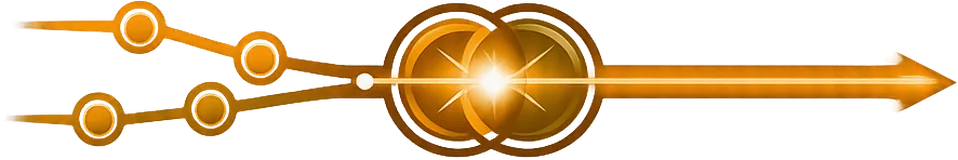
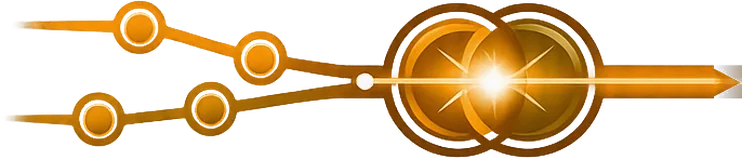
Die sechs Textzeichnungen als SVG, im Leuchtstil in Orange
Selbst gezeichnet statt erzeugt -- damit bleibt erhalten, was ein
Pixelbild verliert: echter Text mit richtigen Umlauten, markierbar und
vorlesbar, gestochen scharf auf jedem Bildschirm.

Zusammen 20 kB fuer alle sechs. Die erzeugten Fassungen wogen 5,9 MB und
enthielten vier Fehler, die im Bild eingebrannt gewesen waeren
("groesster" als grôBter, "Anstoss" als Anstoŝ, ein Pfeil, der das
Gegenteil der Aussage zeigte, und eine fehlende Beschriftung).

Die Markdown-Datei behaelt die ASCII-Zeichnungen. Sie ist die Quelle, in
der sich eine Zeichnung mit dem Texteditor aendern laesst, und bleibt
ohne Browser lesbar; die Seite bekommt die gezeichnete Fassung.

Ausserdem: Bild 05 im Schaft gekuerzt, 958 -> 742 px. Knoten,
Brennpunkt und Pfeilspitze sind unversehrt, die Naht ist ueber 60
Spalten geblendet.

diff --git a/index.html b/index.html
@@ -299,6 +299,10 @@
     border-radius:2px;
   }
 
+  /* ---------- Zeichnungen ---------- */
+  .panel.zeichnung{padding:14px 16px;overflow:visible}
+  .panel.zeichnung svg{display:block;width:100%;height:auto}
+
   /* ---------- Merksätze ---------- */
   .lesson{
     background:var(--surface);
@@ -479,12 +483,15 @@
 
   <h2 id="s2"><span class="num">Abschnitt 02</span>Aufbau</h2>
 
-  <div class="panel"><pre>┌─────────────────┐     WLAN/TLS      ┌────────────────────┐    HTTPS   ┌──────────┐
-│  ESP32          │ ────────────────► │  Gateway (NUC)     │ ─────────► │ Quelle A │
-│  20× ST7735     │                   │  nginx +           │            └──────────┘
-│  10× 74HC595    │                   │  Schemaübersetzer  │ ─────────► ┌──────────┐
-│  IR-Empfänger   │                   │  NTP (chrony)      │            │ Quelle B │
-└─────────────────┘                   └────────────────────┘            └──────────┘</pre></div>
+  <div class="panel zeichnung"><svg viewBox="0 0 880 210" xmlns="http://www.w3.org/2000/svg" role="img" aria-label="Aufbau: Geraet, Gateway und die beiden Quellen" font-family="ui-monospace,Consolas,monospace"><defs>
+  <filter id="gla" x="-30%" y="-60%" width="160%" height="220%">
+    <feGaussianBlur stdDeviation="3" result="b"/>
+    <feMerge><feMergeNode in="b"/><feMergeNode in="b"/><feMergeNode in="SourceGraphic"/></feMerge>
+  </filter>
+  <linearGradient id="bala" x1="0" y1="0" x2="1" y2="0">
+    <stop offset="0" stop-color="#7A3F08"/><stop offset="1" stop-color="#E8912F"/>
+  </linearGradient>
+</defs><rect x="16" y="42" width="224" height="126" rx="3" fill="#1E1408" stroke="#E8912F" stroke-width="2" filter="url(#gla)"/><text x="128" y="70" fill="#E8912F" font-size="17" text-anchor="middle" font-weight="600">ESP32</text><text x="128" y="96" fill="#8A93A2" font-size="13" text-anchor="middle" font-weight="400">20 × ST7735</text><text x="128" y="118" fill="#8A93A2" font-size="13" text-anchor="middle" font-weight="400">10 × 74HC595</text><text x="128" y="140" fill="#8A93A2" font-size="13" text-anchor="middle" font-weight="400">IR-Empfänger</text><g filter="url(#gla)"><line x1="240" y1="105" x2="321" y2="105" stroke="#E8912F" stroke-width="2.5"/><path d="M330 105 l-9 -5 l0 10 z" fill="#E8912F"/></g><text x="285" y="92" fill="#8A93A2" font-size="12" text-anchor="middle" font-weight="400">WLAN / TLS</text><rect x="330" y="42" width="236" height="126" rx="3" fill="#1E1408" stroke="#E8912F" stroke-width="2" filter="url(#gla)"/><text x="448" y="70" fill="#E8912F" font-size="17" text-anchor="middle" font-weight="600">Gateway</text><text x="448" y="96" fill="#8A93A2" font-size="13" text-anchor="middle" font-weight="400">nginx</text><text x="448" y="118" fill="#8A93A2" font-size="13" text-anchor="middle" font-weight="400">Schemaübersetzer</text><text x="448" y="140" fill="#8A93A2" font-size="13" text-anchor="middle" font-weight="400">NTP</text><g filter="url(#gla)"><line x1="566" y1="78" x2="659" y2="78" stroke="#E8912F" stroke-width="2.5"/><path d="M668 78 l-9 -5 l0 10 z" fill="#E8912F"/></g><g filter="url(#gla)"><line x1="566" y1="132" x2="659" y2="132" stroke="#E8912F" stroke-width="2.5"/><path d="M668 132 l-9 -5 l0 10 z" fill="#E8912F"/></g><text x="617" y="64" fill="#8A93A2" font-size="12" text-anchor="middle" font-weight="400">HTTPS</text><rect x="668" y="54" width="196" height="48" rx="3" fill="#1E1408" stroke="#E8912F" stroke-width="2" filter="url(#gla)"/><text x="766" y="84" fill="#E9EBEF" font-size="15" text-anchor="middle" font-weight="400">Quelle A</text><rect x="668" y="108" width="196" height="48" rx="3" fill="#1E1408" stroke="#E8912F" stroke-width="2" filter="url(#gla)"/><text x="766" y="138" fill="#E9EBEF" font-size="15" text-anchor="middle" font-weight="400">Quelle B</text></svg></div>
 
   <div class="col">
     <p><strong>Das Gerät</strong> ist ein ESP32 mit einem einzigen SPI-Bus für alle zwanzig Panels. Die Chip-Select-Leitungen erzeugt eine Kette aus zehn Schieberegistern (74HC595) — zwanzig einzelne Leitungen wären am Controller nicht unterzubringen. Ein Nebeneffekt dieser Bauweise: Ein Bitfehler in der Kette verschiebt <em>alle</em> nachfolgenden Auswahlen, weshalb die Kette turnusmäßig neu beschrieben wird, auch wenn sich nichts geändert hat.</p>
@@ -516,13 +523,15 @@
     <p>Im Betrieb werden laufend Blöcke belegt und wieder freigegeben. Was zurückbleibt, ist kein leerer Raum, sondern ein durchlöcherter — freie und belegte Bereiche wechseln sich ab. Das nennt man <strong>Fragmentierung</strong>:</p>
   </div>
 
-  <div class="panel"><pre>  frei insgesamt: 20 kB                 groesster Block: 17 kB
-  ┌────────────────────┬────────┬────┬────────┬────┐
-  │     17 kB frei     │ belegt │ 2k │ belegt │ 1k │
-  └────────────────────┴────────┴────┴────────┴────┘
-                                 ▲              ▲
-                        diese 3 kB zaehlen als "frei" mit,
-                        sind fuer einen 4-kB-Puffer aber wertlos</pre></div>
+  <div class="panel zeichnung"><svg viewBox="0 0 880 236" xmlns="http://www.w3.org/2000/svg" role="img" aria-label="Fragmentierung: 20 kB frei, groesster Block 17 kB" font-family="ui-monospace,Consolas,monospace"><defs>
+  <filter id="glf" x="-30%" y="-60%" width="160%" height="220%">
+    <feGaussianBlur stdDeviation="3" result="b"/>
+    <feMerge><feMergeNode in="b"/><feMergeNode in="b"/><feMergeNode in="SourceGraphic"/></feMerge>
+  </filter>
+  <linearGradient id="balf" x1="0" y1="0" x2="1" y2="0">
+    <stop offset="0" stop-color="#7A3F08"/><stop offset="1" stop-color="#E8912F"/>
+  </linearGradient>
+</defs><text x="16" y="30" fill="#8A93A2" font-size="14" text-anchor="start" font-weight="400">frei insgesamt:</text><text x="150" y="30" fill="#E8912F" font-size="14" text-anchor="start" font-weight="600">20 kB</text><text x="430" y="30" fill="#8A93A2" font-size="14" text-anchor="start" font-weight="400">größter Block:</text><text x="560" y="30" fill="#E8912F" font-size="14" text-anchor="start" font-weight="600">17 kB</text><rect x="16" y="54" width="300" height="62" rx="3" fill="#2A1A08" stroke="#E8912F" stroke-width="2" filter="url(#glf)"/><text x="166" y="92" fill="#E9EBEF" font-size="15" text-anchor="middle" font-weight="600">17 kB frei</text><rect x="320" y="54" width="120" height="62" rx="3" fill="#141414" stroke="#B3670F" stroke-width="2" filter="url(#glf)"/><text x="380" y="92" fill="#8A93A2" font-size="15" text-anchor="middle" font-weight="400">belegt</text><rect x="444" y="54" width="68" height="62" rx="3" fill="#2A1A08" stroke="#E8912F" stroke-width="2" filter="url(#glf)"/><text x="478" y="92" fill="#E9EBEF" font-size="15" text-anchor="middle" font-weight="600">2k</text><rect x="516" y="54" width="120" height="62" rx="3" fill="#141414" stroke="#B3670F" stroke-width="2" filter="url(#glf)"/><text x="576" y="92" fill="#8A93A2" font-size="15" text-anchor="middle" font-weight="400">belegt</text><rect x="640" y="54" width="68" height="62" rx="3" fill="#2A1A08" stroke="#E8912F" stroke-width="2" filter="url(#glf)"/><text x="674" y="92" fill="#E9EBEF" font-size="15" text-anchor="middle" font-weight="600">1k</text><g filter="url(#glf)"><path d="M478 128 l-7 -12 l14 0 z" fill="#E8912F"/><path d="M674 128 l-7 -12 l14 0 z" fill="#E8912F"/></g><text x="440" y="168" fill="#E9EBEF" font-size="15" text-anchor="middle" font-weight="400">diese 3 kB zählen als „frei“ mit,</text><text x="440" y="192" fill="#E8912F" font-size="15" text-anchor="middle" font-weight="400">sind für einen 4-kB-Puffer aber wertlos</text></svg></div>
 
   <div class="col">
     <p>Auf einem PC merkt man davon nichts: Dort setzt eine Speicherverwaltungseinheit in der Hardware verstreute Seiten zu einem zusammenhängenden Bereich zusammen, und die Anwendung sieht nur den fertigen Block. <strong>Ein ESP32 hat diese Einheit nicht.</strong> Was im physischen Speicher zerstückelt ist, bleibt zerstückelt. Ein freigegebener Block hilft nur dann, wenn er zufällig an einen anderen freien grenzt.</p>
@@ -534,12 +543,15 @@
     <p>An diesem Gerät liegen die <strong>Stapelspeicher der Tasks in einer anderen Region als der große freie Block</strong> — <code>0x3ffe0440</code> gegenüber <code>0x3ffe4350</code>. Ein Vorschlag, einen Task-Stack um 2 kB zu verkleinern, hätte den nutzbaren Block deshalb <strong>um kein einziges Byte vergrößert</strong>. Er hätte nur den Stack an den Rand des Überlaufs gebracht:</p>
   </div>
 
-  <div class="panel"><pre>  Region 1  (0x3ffe0440)        Region 2  (0x3ffe4350)
-  ┌───────────────────────┐     ┌───────────────────────┐
-  │ Task-Stacks, randvoll │     │   der grosse freie    │
-  │                       │     │        Block          │
-  └───────────────────────┘     └───────────────────────┘
-        hier 2 kB sparen  ──✗──►  vergroessert hier nichts</pre></div>
+  <div class="panel zeichnung"><svg viewBox="0 0 880 210" xmlns="http://www.w3.org/2000/svg" role="img" aria-label="Zwei getrennte Speicherregionen" font-family="ui-monospace,Consolas,monospace"><defs>
+  <filter id="glr" x="-30%" y="-60%" width="160%" height="220%">
+    <feGaussianBlur stdDeviation="3" result="b"/>
+    <feMerge><feMergeNode in="b"/><feMergeNode in="b"/><feMergeNode in="SourceGraphic"/></feMerge>
+  </filter>
+  <linearGradient id="balr" x1="0" y1="0" x2="1" y2="0">
+    <stop offset="0" stop-color="#7A3F08"/><stop offset="1" stop-color="#E8912F"/>
+  </linearGradient>
+</defs><text x="190" y="34" fill="#E8912F" font-size="15" text-anchor="middle" font-weight="600">Region 1</text><text x="190" y="54" fill="#8A93A2" font-size="13" text-anchor="middle" font-weight="400">0x3ffe0440</text><text x="690" y="34" fill="#E8912F" font-size="15" text-anchor="middle" font-weight="600">Region 2</text><text x="690" y="54" fill="#8A93A2" font-size="13" text-anchor="middle" font-weight="400">0x3ffe4350</text><rect x="60" y="72" width="260" height="76" rx="3" fill="#141414" stroke="#B3670F" stroke-width="2" filter="url(#glr)"/><text x="190" y="118" fill="#8A93A2" font-size="15" text-anchor="middle" font-weight="400">Task-Stacks, randvoll</text><rect x="560" y="72" width="260" height="76" rx="3" fill="#2A1A08" stroke="#E8912F" stroke-width="2" filter="url(#glr)"/><text x="690" y="118" fill="#E9EBEF" font-size="15" text-anchor="middle" font-weight="600">der große freie Block</text><g filter="url(#glr)"><line x1="330" y1="110" x2="540" y2="110" stroke="#B3670F" stroke-width="2.5" stroke-dasharray="7 7"/></g><g stroke="#D8452B" stroke-width="4" stroke-linecap="round"><line x1="418" y1="96" x2="452" y2="124"/><line x1="452" y1="96" x2="418" y2="124"/></g><text x="440" y="178" fill="#8A93A2" font-size="15" text-anchor="middle" font-weight="400">hier 2 kB sparen vergrößert dort nichts</text></svg></div>
 
   <div class="col">
     <p>Wer auf so einem Gerät Speicher sucht, muss also wissen, <strong>wo</strong> er frei wird, nicht nur wie viel.</p>
@@ -583,19 +595,15 @@
     <p>Stattdessen wird <strong>immer nur ein einzelner Eintrag zugleich abgelegt</strong> — im Beispiel unten eine Partie. Ein <strong>Filter</strong> legt dabei fest, welche Felder eines Eintrags überhaupt übernommen werden; alles andere überliest der Parser, ohne dafür Speicher zu belegen:</p>
   </div>
 
-  <div class="panel"><pre>  JSON-Dokument                 Ablage im RAM
-  als HTTP-Strom                (8 kB, EINMAL angelegt)
-  ┌──────────────┐
-  │ [ Partie 1,  │──► Filter ──►┌─────────────┐
-  │   Partie 2,  │              │  Partie 1   │──► Rueckruf: Werte in die
-  │   Partie 3,  │              └─────────────┘    eigenen Strukturen holen
-  │   …          │                     │
-  │   Partie 31 ]│              geleert, wiederverwendet
-  └──────────────┘                     │
-    78 kB, nie                         ▼
-    am Stueck im            ┌─────────────┐
-    Speicher                │  Partie 2   │──► Rueckruf …
-                            └─────────────┘</pre></div>
+  <div class="panel zeichnung"><svg viewBox="0 0 880 320" xmlns="http://www.w3.org/2000/svg" role="img" aria-label="Elementweises Lesen: ein Eintrag zugleich in einer geteilten Ablage" font-family="ui-monospace,Consolas,monospace"><defs>
+  <filter id="gle" x="-30%" y="-60%" width="160%" height="220%">
+    <feGaussianBlur stdDeviation="3" result="b"/>
+    <feMerge><feMergeNode in="b"/><feMergeNode in="b"/><feMergeNode in="SourceGraphic"/></feMerge>
+  </filter>
+  <linearGradient id="bale" x1="0" y1="0" x2="1" y2="0">
+    <stop offset="0" stop-color="#7A3F08"/><stop offset="1" stop-color="#E8912F"/>
+  </linearGradient>
+</defs><text x="24" y="26" fill="#8A93A2" font-size="13" text-anchor="start" font-weight="400">JSON-Dokument als HTTP-Strom</text><text x="516" y="26" fill="#E8912F" font-size="13" text-anchor="start" font-weight="600">Ablage im RAM</text><text x="516" y="46" fill="#8A93A2" font-size="12" text-anchor="start" font-weight="400">8 kB, EINMAL angelegt</text><rect x="24" y="44" width="200" height="186" rx="3" fill="none" stroke="#B3670F" stroke-width="1.5" stroke-dasharray="4 5"/><rect x="36" y="56" width="176" height="27" rx="3" fill="#1A1206" stroke="#B3670F" stroke-width="1.5" filter="url(#gle)"/><text x="124" y="75" fill="#E9EBEF" font-size="14" text-anchor="middle" font-weight="400">Partie 1</text><rect x="36" y="91" width="176" height="27" rx="3" fill="#1A1206" stroke="#B3670F" stroke-width="1.5" filter="url(#gle)"/><text x="124" y="110" fill="#E9EBEF" font-size="14" text-anchor="middle" font-weight="400">Partie 2</text><rect x="36" y="126" width="176" height="27" rx="3" fill="#1A1206" stroke="#B3670F" stroke-width="1.5" filter="url(#gle)"/><text x="124" y="145" fill="#E9EBEF" font-size="14" text-anchor="middle" font-weight="400">Partie 3</text><rect x="36" y="161" width="176" height="27" rx="3" fill="#1A1206" stroke="#B3670F" stroke-width="1.5" filter="url(#gle)"/><text x="124" y="180" fill="#8A93A2" font-size="14" text-anchor="middle" font-weight="400">…</text><rect x="36" y="196" width="176" height="27" rx="3" fill="#1A1206" stroke="#B3670F" stroke-width="1.5" filter="url(#gle)"/><text x="124" y="215" fill="#E9EBEF" font-size="14" text-anchor="middle" font-weight="400">Partie 31</text><text x="124" y="254" fill="#8A93A2" font-size="13" text-anchor="middle" font-weight="400">78 kB — nie am Stück im Speicher</text><g filter="url(#gle)"><line x1="232" y1="86" x2="321" y2="86" stroke="#E8912F" stroke-width="2.5"/><path d="M330 86 l-9 -5 l0 10 z" fill="#E8912F"/></g><text x="281" y="76" fill="#E8912F" font-size="12" text-anchor="middle" font-weight="600">Filter</text><rect x="340" y="62" width="200" height="48" rx="3" fill="#1E1408" stroke="#E8912F" stroke-width="2" filter="url(#gle)"/><text x="440" y="92" fill="#E9EBEF" font-size="15" text-anchor="middle" font-weight="600">Partie 1</text><g filter="url(#gle)"><line x1="548" y1="86" x2="615" y2="86" stroke="#E8912F" stroke-width="2.5"/><path d="M624 86 l-9 -5 l0 10 z" fill="#E8912F"/></g><text x="636" y="82" fill="#E9EBEF" font-size="13" text-anchor="start" font-weight="400">Rückruf: Werte in die</text><text x="636" y="100" fill="#8A93A2" font-size="13" text-anchor="start" font-weight="400">eigenen Strukturen holen</text><g filter="url(#gle)"><line x1="440" y1="118" x2="440" y2="163" stroke="#E8912F" stroke-width="2.5"/><path d="M440 172 l-5 -9 l10 0 z" fill="#E8912F"/></g><text x="456" y="150" fill="#E8912F" font-size="12" text-anchor="start" font-weight="400">geleert, wiederverwendet</text><rect x="340" y="178" width="200" height="48" rx="3" fill="#1A1206" stroke="#B3670F" stroke-width="2" filter="url(#gle)"/><text x="440" y="208" fill="#E9EBEF" font-size="15" text-anchor="middle" font-weight="400">Partie 2</text><g filter="url(#gle)"><line x1="548" y1="202" x2="615" y2="202" stroke="#B3670F" stroke-width="2.5"/><path d="M624 202 l-9 -5 l0 10 z" fill="#B3670F"/></g><text x="636" y="207" fill="#8A93A2" font-size="13" text-anchor="start" font-weight="400">Rückruf …</text></svg></div>
 
   <div class="col">
     <p>Damit hängt der Speicherbedarf <strong>nicht mehr an der Größe des Dokuments</strong>, sondern nur noch am <strong>größten einzelnen Eintrag</strong>. Ob eine Runde drei oder einunddreißig Partien enthält, ändert am Bedarf nichts — und das ist der eigentliche Gewinn: Die Auslegung wird unabhängig von einer Zahl, über die das Gerät nicht bestimmt. Dieselbe Ablage trägt deshalb auch alle anderen Abrufarten aus der Tabelle oben, ohne dass eine davon eine eigene bekommt.</p>
@@ -648,14 +656,15 @@
     </table>
   </div>
 
-  <div class="panel"><pre>      Ruhe             Vorlauf                  Live                    Ruhe
- ├───────────────┼─────────────────┼──────────────────────────────┼───────────────
- │   1 Stunde    │    1 Minute     │        20 Sekunden           │   1 Stunde
- │   ·       ·   │  · · · · · · ·  │ ············· ·············· │   ·       ·
- └───────────────┴─────────────────┴──────────────────────────────┴───────────────
-                 ▲                 ▲                              ▲
-        Anstoss rueckt in       Anpfiff                        Abpfiff
-        Sichtweite</pre></div>
+  <div class="panel zeichnung"><svg viewBox="0 0 880 224" xmlns="http://www.w3.org/2000/svg" role="img" aria-label="Drei Abtasttakte rund um eine Partie" font-family="ui-monospace,Consolas,monospace"><defs>
+  <filter id="glk" x="-30%" y="-60%" width="160%" height="220%">
+    <feGaussianBlur stdDeviation="3" result="b"/>
+    <feMerge><feMergeNode in="b"/><feMergeNode in="b"/><feMergeNode in="SourceGraphic"/></feMerge>
+  </filter>
+  <linearGradient id="balk" x1="0" y1="0" x2="1" y2="0">
+    <stop offset="0" stop-color="#7A3F08"/><stop offset="1" stop-color="#E8912F"/>
+  </linearGradient>
+</defs><rect x="24" y="46" width="186" height="72" rx="3" fill="#161208" stroke="#B3670F" stroke-width="2" filter="url(#glk)"/><text x="117" y="32" fill="#8A93A2" font-size="14" text-anchor="middle" font-weight="600">Ruhe</text><text x="117" y="89" fill="#8A93A2" font-size="16" text-anchor="middle" font-weight="400">1 Stunde</text><rect x="210" y="46" width="150" height="72" rx="3" fill="#161208" stroke="#B3670F" stroke-width="2" filter="url(#glk)"/><text x="285" y="32" fill="#8A93A2" font-size="14" text-anchor="middle" font-weight="600">Vorlauf</text><text x="285" y="89" fill="#8A93A2" font-size="16" text-anchor="middle" font-weight="400">1 Minute</text><rect x="360" y="46" width="320" height="72" rx="3" fill="#2A1A08" stroke="#E8912F" stroke-width="2" filter="url(#glk)"/><text x="520" y="32" fill="#E8912F" font-size="14" text-anchor="middle" font-weight="600">Live</text><text x="520" y="89" fill="#E9EBEF" font-size="16" text-anchor="middle" font-weight="600">20 Sekunden</text><rect x="680" y="46" width="176" height="72" rx="3" fill="#161208" stroke="#B3670F" stroke-width="2" filter="url(#glk)"/><text x="768" y="32" fill="#8A93A2" font-size="14" text-anchor="middle" font-weight="600">Ruhe</text><text x="768" y="89" fill="#8A93A2" font-size="16" text-anchor="middle" font-weight="400">1 Stunde</text><line x1="210" y1="118" x2="210" y2="146" stroke="#E8912F" stroke-width="2"/><circle cx="210" cy="118" r="4" fill="#E8912F" filter="url(#glk)"/><text x="210" y="166" fill="#8A93A2" font-size="13" text-anchor="middle" font-weight="400">Anstoß rückt</text><text x="210" y="184" fill="#8A93A2" font-size="13" text-anchor="middle" font-weight="400">in Sichtweite</text><line x1="360" y1="118" x2="360" y2="146" stroke="#E8912F" stroke-width="2"/><circle cx="360" cy="118" r="4" fill="#E8912F" filter="url(#glk)"/><text x="360" y="166" fill="#E9EBEF" font-size="13" text-anchor="middle" font-weight="400">Anpfiff</text><line x1="680" y1="118" x2="680" y2="146" stroke="#E8912F" stroke-width="2"/><circle cx="680" cy="118" r="4" fill="#E8912F" filter="url(#glk)"/><text x="680" y="166" fill="#E9EBEF" font-size="13" text-anchor="middle" font-weight="400">Abpfiff</text><text x="440" y="212" fill="#8A93A2" font-size="13" text-anchor="middle" font-weight="400">Faktor 180 zwischen Ruhe und Live</text></svg></div>
 
   <div class="col">
     <p>Der Faktor zwischen Ruhe und Live ist <strong>180</strong>. Ein fester Takt müsste sich für einen der beiden Fälle entscheiden und wäre entweder verschwenderisch oder zu langsam.</p>
@@ -729,19 +738,15 @@
     </ol>
   </div>
 
-  <div class="panel"><pre> Zustaende         Vor ─────── Laeuft ─────── Pause ─────── Laeuft ─────── Ende
- (was gilt)              ▲            ▲             ▲              ▲
-                         │            │             │              │
- Uebergaenge          Anpfiff    Pausenpfiff   Wiederanpfiff    Abpfiff
- (was gerade             │            │             │              │
-  passiert ist)          └────────────┴──────┬──────┴──────────────┘
-                                             ▼
-                                        EINE Queue
-                                             │
-                     ┌──────────┬────────────┼────────────┬──────────┐
-                     ▼          ▼            ▼            ▼          ▼
-                  Buzzer   Tabellen-     Halbzeit-      Board    Log/Diagnose
-                           animation     Anzeige</pre></div>
+  <div class="panel zeichnung"><svg viewBox="0 0 880 330" xmlns="http://www.w3.org/2000/svg" role="img" aria-label="Zustaende, Uebergaenge, eine Queue und ihre Verbraucher" font-family="ui-monospace,Consolas,monospace"><defs>
+  <filter id="glz" x="-30%" y="-60%" width="160%" height="220%">
+    <feGaussianBlur stdDeviation="3" result="b"/>
+    <feMerge><feMergeNode in="b"/><feMergeNode in="b"/><feMergeNode in="SourceGraphic"/></feMerge>
+  </filter>
+  <linearGradient id="balz" x1="0" y1="0" x2="1" y2="0">
+    <stop offset="0" stop-color="#7A3F08"/><stop offset="1" stop-color="#E8912F"/>
+  </linearGradient>
+</defs><text x="24" y="24" fill="#8A93A2" font-size="11" text-anchor="start" font-weight="400">ZUSTÄNDE — was gilt</text><rect x="30" y="34" width="140" height="38" rx="3" fill="#161208" stroke="#B3670F" stroke-width="1.5" filter="url(#glz)"/><text x="100" y="59" fill="#E9EBEF" font-size="14" text-anchor="middle" font-weight="400">Vor</text><rect x="200" y="34" width="140" height="38" rx="3" fill="#161208" stroke="#B3670F" stroke-width="1.5" filter="url(#glz)"/><text x="270" y="59" fill="#E9EBEF" font-size="14" text-anchor="middle" font-weight="400">Läuft</text><rect x="370" y="34" width="140" height="38" rx="3" fill="#161208" stroke="#B3670F" stroke-width="1.5" filter="url(#glz)"/><text x="440" y="59" fill="#E9EBEF" font-size="14" text-anchor="middle" font-weight="400">Pause</text><rect x="540" y="34" width="140" height="38" rx="3" fill="#161208" stroke="#B3670F" stroke-width="1.5" filter="url(#glz)"/><text x="610" y="59" fill="#E9EBEF" font-size="14" text-anchor="middle" font-weight="400">Läuft</text><rect x="710" y="34" width="140" height="38" rx="3" fill="#161208" stroke="#B3670F" stroke-width="1.5" filter="url(#glz)"/><text x="780" y="59" fill="#E9EBEF" font-size="14" text-anchor="middle" font-weight="400">Ende</text><line x1="170" y1="72" x2="170" y2="96" stroke="#E8912F" stroke-width="2"/><text x="170" y="116" fill="#E8912F" font-size="13" text-anchor="middle" font-weight="600">Anpfiff</text><line x1="340" y1="72" x2="340" y2="96" stroke="#E8912F" stroke-width="2"/><text x="340" y="116" fill="#E8912F" font-size="13" text-anchor="middle" font-weight="600">Pausenpfiff</text><line x1="510" y1="72" x2="510" y2="96" stroke="#E8912F" stroke-width="2"/><text x="510" y="116" fill="#E8912F" font-size="13" text-anchor="middle" font-weight="600">Wiederanpfiff</text><line x1="680" y1="72" x2="680" y2="96" stroke="#E8912F" stroke-width="2"/><text x="680" y="116" fill="#E8912F" font-size="13" text-anchor="middle" font-weight="600">Abpfiff</text><text x="24" y="146" fill="#8A93A2" font-size="11" text-anchor="start" font-weight="400">ÜBERGÄNGE — was gerade passiert ist</text><path d="M170 128 L440 158 L680 128" fill="none" stroke="#E8912F" stroke-width="2" filter="url(#glz)"/><g filter="url(#glz)"><line x1="440" y1="158" x2="440" y2="179" stroke="#E8912F" stroke-width="2.5"/><path d="M440 188 l-5 -9 l10 0 z" fill="#E8912F"/></g><rect x="350" y="190" width="180" height="42" rx="3" fill="#1E1408" stroke="#E8912F" stroke-width="2" filter="url(#glz)"/><text x="440" y="217" fill="#E8912F" font-size="15" text-anchor="middle" font-weight="600">EINE Queue</text><path d="M110 248 L440 248" fill="none" stroke="#B3670F" stroke-width="2"/><path d="M440 248 L774 248" fill="none" stroke="#B3670F" stroke-width="2"/><line x1="440" y1="232" x2="440" y2="248" stroke="#B3670F" stroke-width="2"/><g filter="url(#glz)"><line x1="108" y1="248" x2="108" y2="267" stroke="#B3670F" stroke-width="2.5"/><path d="M108 276 l-5 -9 l10 0 z" fill="#B3670F"/></g><rect x="30" y="276" width="156" height="36" rx="3" fill="#161208" stroke="#B3670F" stroke-width="1.5" filter="url(#glz)"/><text x="108" y="299" fill="#8A93A2" font-size="12" text-anchor="middle" font-weight="400">Buzzer</text><g filter="url(#glz)"><line x1="274" y1="248" x2="274" y2="267" stroke="#B3670F" stroke-width="2.5"/><path d="M274 276 l-5 -9 l10 0 z" fill="#B3670F"/></g><rect x="196" y="276" width="156" height="36" rx="3" fill="#161208" stroke="#B3670F" stroke-width="1.5" filter="url(#glz)"/><text x="274" y="299" fill="#8A93A2" font-size="12" text-anchor="middle" font-weight="400">Tabellenanimation</text><g filter="url(#glz)"><line x1="440" y1="248" x2="440" y2="267" stroke="#B3670F" stroke-width="2.5"/><path d="M440 276 l-5 -9 l10 0 z" fill="#B3670F"/></g><rect x="362" y="276" width="156" height="36" rx="3" fill="#161208" stroke="#B3670F" stroke-width="1.5" filter="url(#glz)"/><text x="440" y="299" fill="#8A93A2" font-size="12" text-anchor="middle" font-weight="400">Halbzeit-Anzeige</text><g filter="url(#glz)"><line x1="606" y1="248" x2="606" y2="267" stroke="#B3670F" stroke-width="2.5"/><path d="M606 276 l-5 -9 l10 0 z" fill="#B3670F"/></g><rect x="528" y="276" width="156" height="36" rx="3" fill="#161208" stroke="#B3670F" stroke-width="1.5" filter="url(#glz)"/><text x="606" y="299" fill="#8A93A2" font-size="12" text-anchor="middle" font-weight="400">Board</text><g filter="url(#glz)"><line x1="772" y1="248" x2="772" y2="267" stroke="#B3670F" stroke-width="2.5"/><path d="M772 276 l-5 -9 l10 0 z" fill="#B3670F"/></g><rect x="694" y="276" width="156" height="36" rx="3" fill="#161208" stroke="#B3670F" stroke-width="1.5" filter="url(#glz)"/><text x="772" y="299" fill="#8A93A2" font-size="12" text-anchor="middle" font-weight="400">Log</text></svg></div>
 
   <div class="col">
     <p>Damit feuert ein Übergang <strong>von Bauart her genau einmal</strong>. Vorher musste das jede Stelle für sich sicherstellen — und eine davon tat es nicht.</p>
